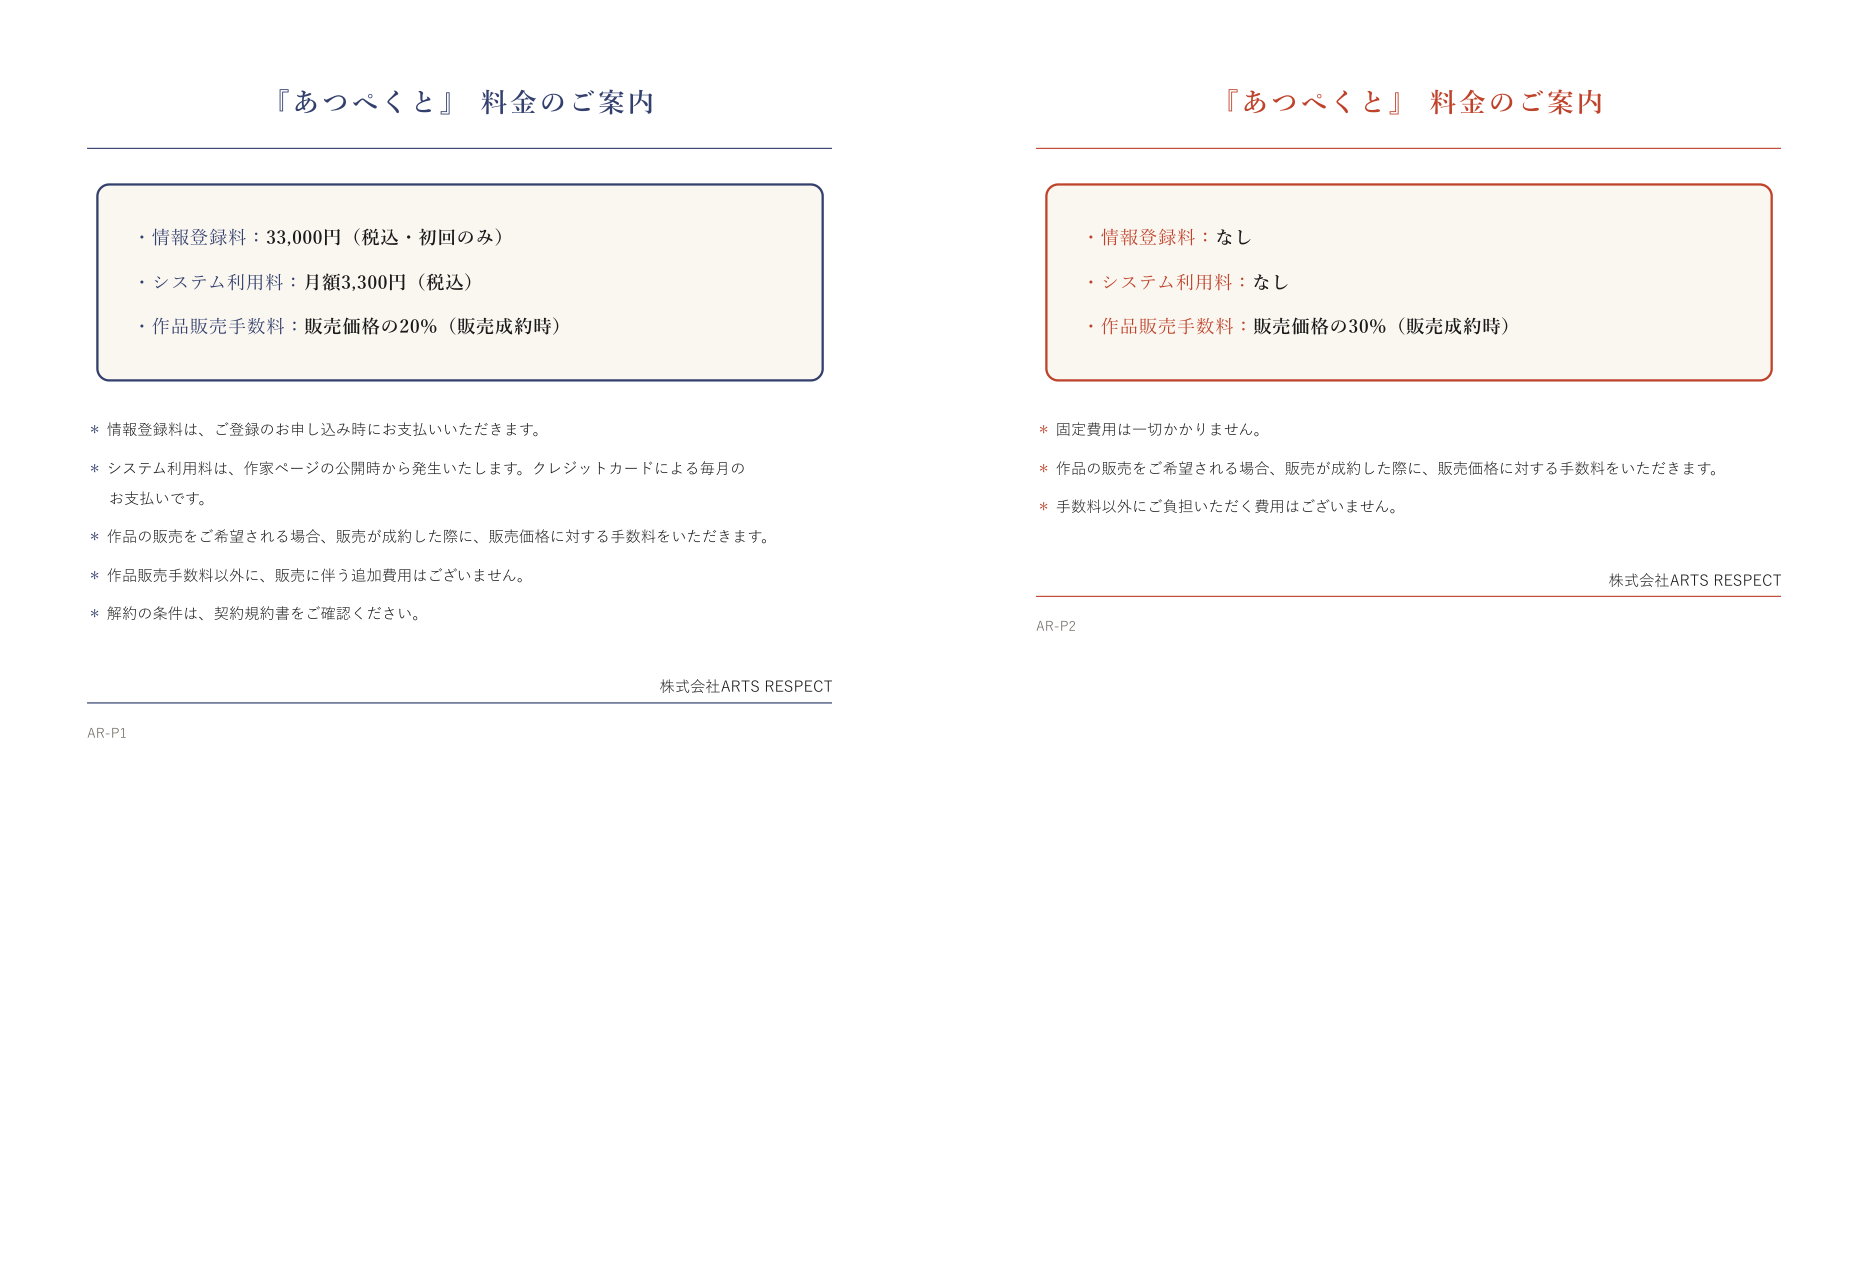
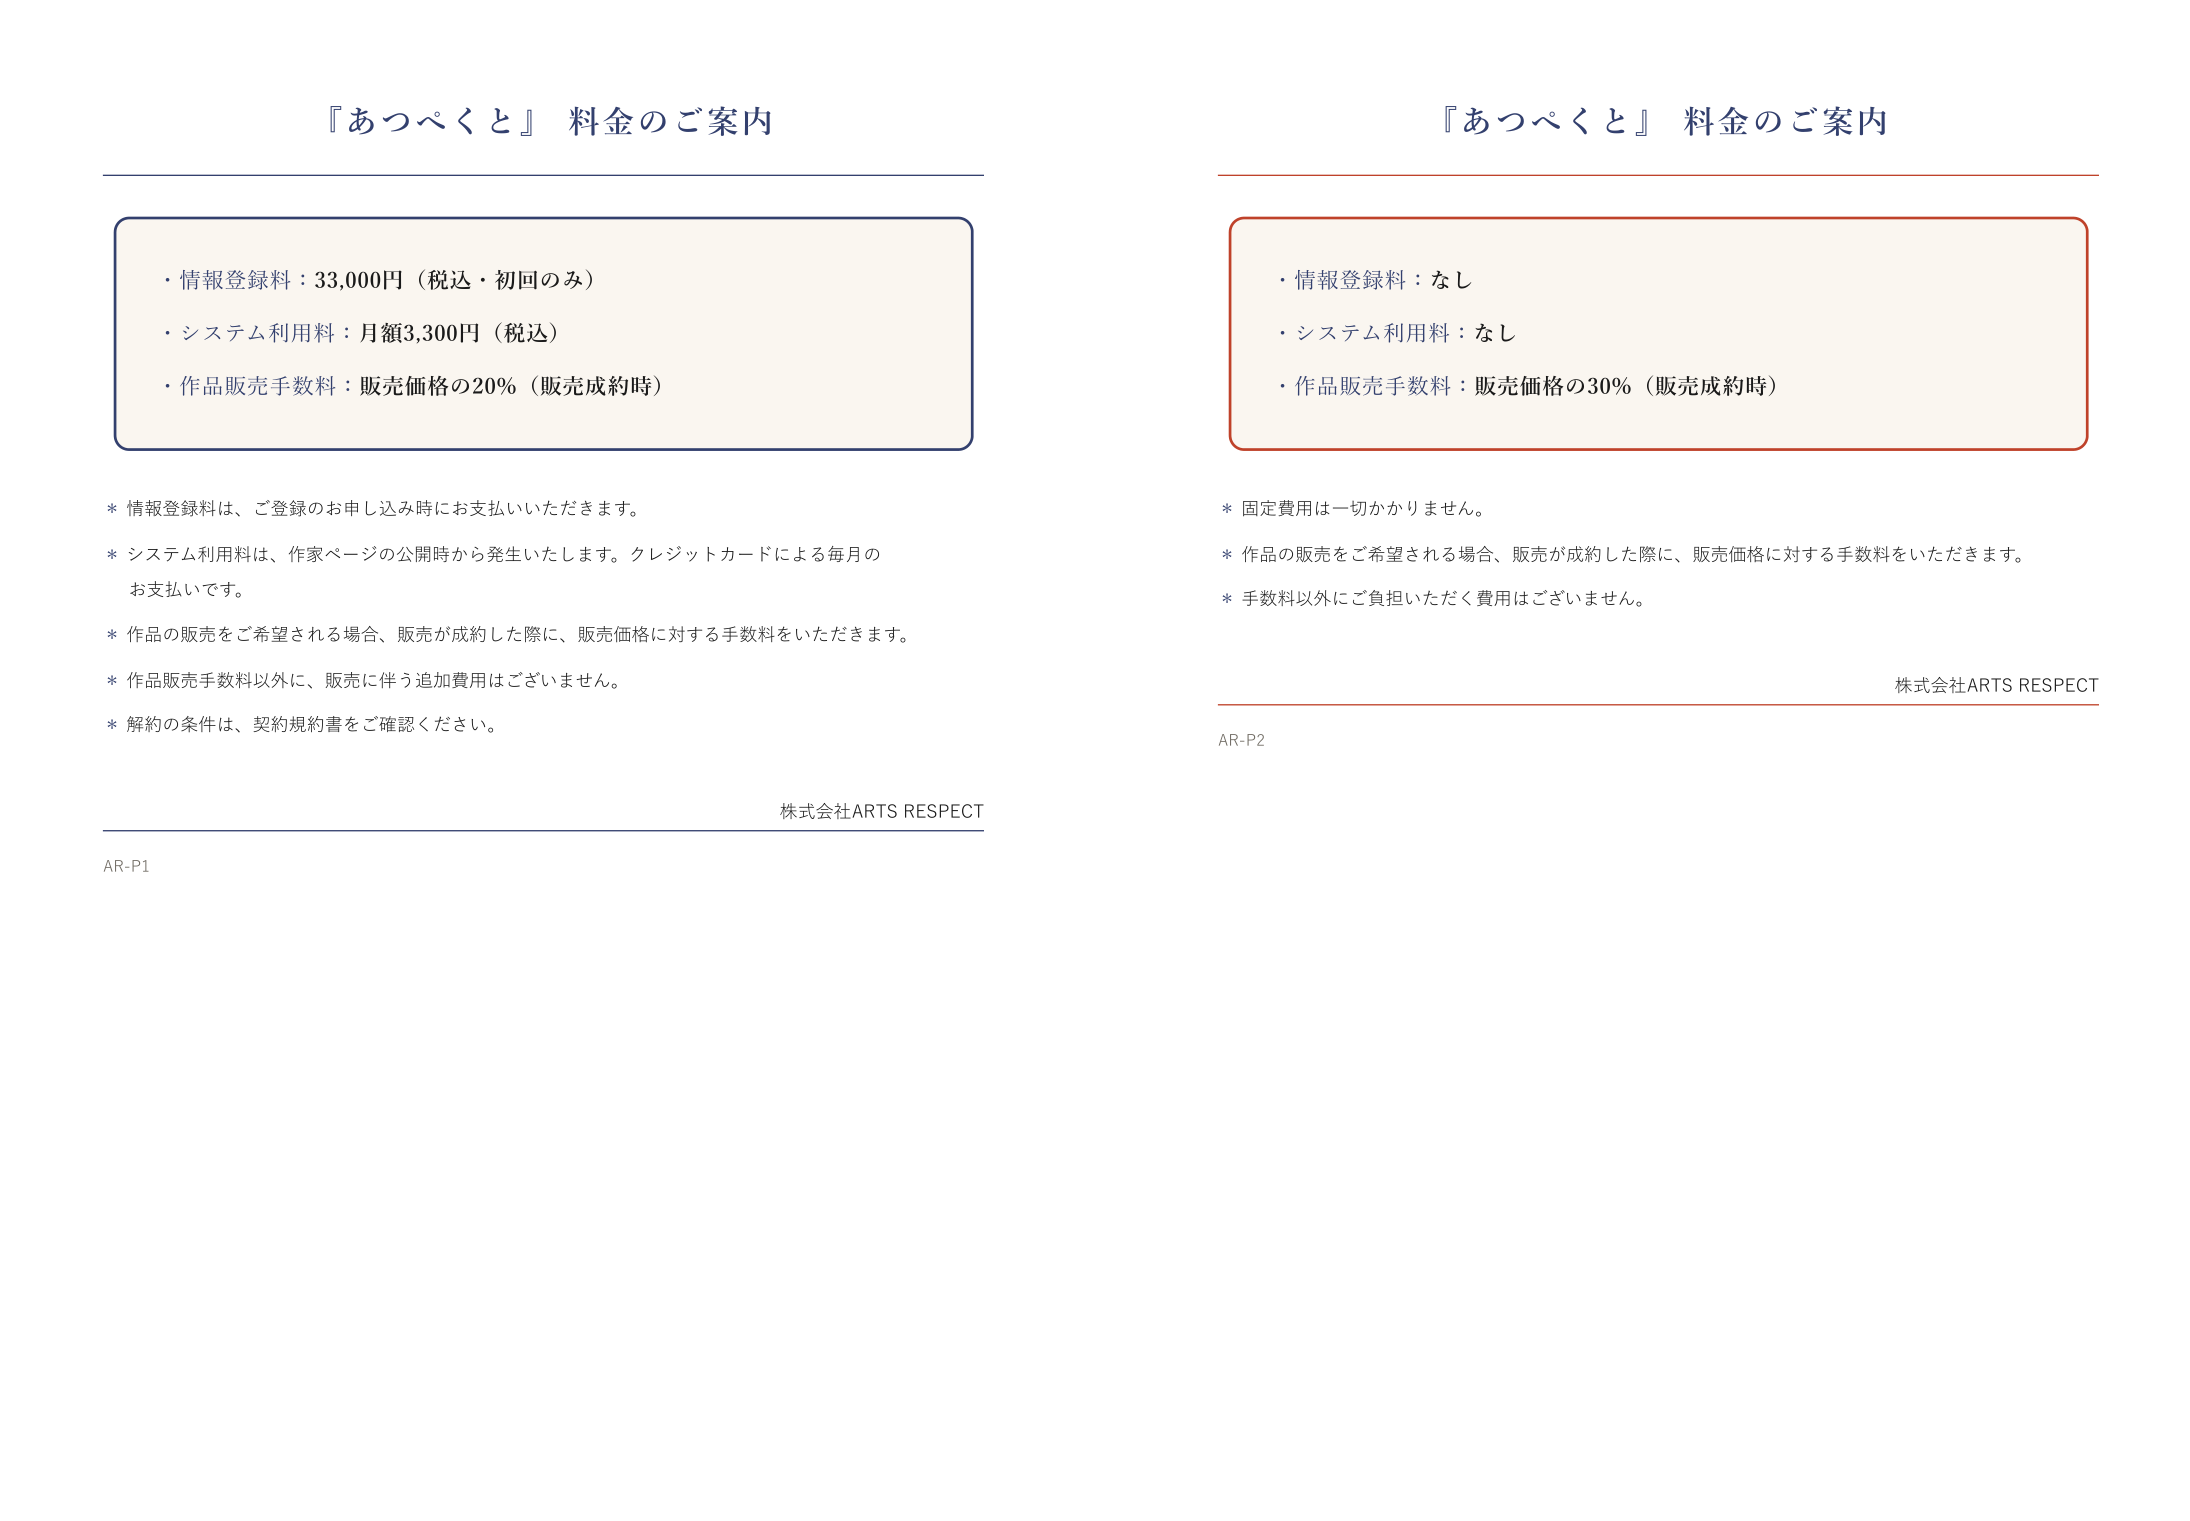
AR-P2の文字色をAR-P1と同一へ戻す（朱色は罫線と枠の3箇所のみ）・本文領域に朱色画素0をピクセル実証・線の欠け0

diff --git a/reports/assets/20260729_insatsu-reissue/report21.md b/reports/assets/20260729_insatsu-reissue/report21.md
@@ -1,0 +1,37 @@
+# 料金表AR-P2の文字色を元に戻す（朱色は罫線と枠だけに）
+
+作成：あつぺくと制作ターミナル／2026-07-31
+
+前便（[report20](./report20.md)）でAR-P2を朱色化した際、文字まで朱色にしたため「紙全体が赤く見え、本文の黒と混ざって読みにくい」との指摘を受けた是正。Vault実装ログ`_実装ログ_申込書注記と料金表の色分け_20260731_ATSPECT.md`が正本（本便分を追記）。
+
+## やったこと
+
+**朱色（#C0432B）のまま残したのは線の3箇所だけ**：
+- タイトル下の横罫（1.2pt）
+- 料金枠のボーダー（1.5pt）
+- フッター上の罫線（0.4pt）
+
+**AR-P1と同じ色に戻した文字**：
+- タイトル「『あつぺくと』 料金のご案内」→ 藍 #34416e
+- 項目名（情報登録料／システム利用料／作品販売手数料）→ 藍 #34416e
+- 注記の「＊」記号 → 藍 #34416e
+
+※注記の本文・金額（黒 #1A1A1A）、「株式会社ARTS RESPECT」・文書ID「AR-P2」（グレー #6f6a63）は**当初から変更しておらず、もともとAR-P1と同一**でした。
+
+## 検証（実測）
+
+- **文字色がAR-P1と完全一致**＝両ファイルの5要素を抽出して機械対比＝タイトル#34416e／項目名#34416e／金額#1A1A1A／＊記号#34416e／社名・文書ID#6f6a63で**全一致**。
+- **朱色が線だけであることのピクセル実証（300dpi）**＝朱色が現れる縦方向の帯は**y403-405（3px＝タイトル下の罫）／y500-1039（料金枠）／y1625-1627（3px＝フッター罫）の3箇所のみ**。料金枠の内側（y600-900）で朱色が出るx座標は**263-267と2241-2245（枠の左右の縦線）だけ**＝**本文領域に朱色の画素は1つもない**。
+- 藍色の画素が**15,614個**検出＝文字が藍に戻っている裏付け。
+- **並べた画像で目視**＝一目の区別は維持され、かつ紙全体が赤く見えない（証拠＝`p1_p2_side_by_side.png`）。
+- **線の欠け検査**＝E-3でAR-P2 L7/R7/T7/B7・**差0px**、直線部の連続性も**4辺すべて隙間0**（AR-P1も同値）。右辺の拡大画像で実線と角の接続を目視確認（`p2_box_right_edge_zoom.png`）。
+- `layout_check.py --all`＝**全42項目PASS・FAIL 0件**／`check_doc_text_v3.py`＝全PASS／`verify_before_print.py`＝全PASS。
+- 入稿フォルダ同期・デスクトップ差し替え（**MD5一致**）。
+
+## 実施していないこと・判定していないこと
+
+- AR-P1側の変更（対象外・変更なし）。
+- Codexレビュー（本便は指示になく、前便の色の再現性レビュー＝#C0432Bは4色印刷で問題なし・代案不要、が有効なまま。**線のみに縮小したことでインクの使用面積は減る方向のため、印刷再現性の判定は前便から悪化しない**と判断した）。
+- 前便からの継続の未対応事項＝**`10_印刷入稿仕様書.pdf`への色分けの明記**（編集可能なソースがなくPDFのみのため更新できず。00・09・11には明記済み）。
+- 前便からの継続の要判断事項＝Codex提案の型名ラベル（「月額型［AR-P1］」等）の追加。**白黒コピー時は色による区別が事実上失われる**という限界は本便でも変わらない（むしろ朱色の使用面積が減ったため、白黒での差はさらに小さくなる方向）。
+- 実プリンター・実機の複写機での色の出方（未確認＝実機確認は代表に委ねる）。

diff --git a/reports/seisaku.md b/reports/seisaku.md
@@ -1,11 +1,11 @@
-申込書の注記と料金表の色分け＝完遂。
-1雅号の注記＝「雅号は、」を削除。左端の整列はbboxでは0.07mm差だったが実インクをピクセル実測すると0.33mm右にずれていた（「※」の字面の左アキ）→補正して差0.08mmへ。
-2料金表AR-P2を朱色#C0432B（CMYK C0/M65/Y78/K25・総インク量168%）へ。適用は罫線/枠/見出し/ラベル/＊記号の7箇所、本文と金額は黒のまま。藍の残存0件（全数確認・青系の色は1つも残っていない）。並べた画像で一目で区別できることを確認。
-線の欠け検査＝E-3で4辺7px差0px・直線部の隙間0（※測定で異常値が出たが既知正常のAR-P1でも同値のため測定側の誤りと判別し是正して再測定）。
-Codex2観点＝①朱色は4色印刷で問題なし・代案不要（総インク量168%・色域外れなし・伝統色の朱・0.4pt罫線が版ズレに最も敏感だが可）②白黒コピー時の区別は「一目で確実とは言えない」＝不十分。型名ラベル追加を提案されたが、指示範囲（色のみ）を超え料金表の文言変更にあたるため実施せず要判断として報告。
-★カラー原本では目的を達成、白黒コピーでは色の区別が事実上失われる限界を明示報告。
-窓口の取り違え防止＝00入稿一覧・09窓口メモ(PDF再生成)・11最終チェックリストに藍/朱を明記（指示の「10」は実名11_最終チェックリスト。10_印刷入稿仕様書はHTMLソースがなく更新できず＝要対応）。
+料金表AR-P2の文字色を元に戻す＝完遂。
+朱色(#C0432B)のまま残したのは線の3箇所だけ＝タイトル下の横罫1.2pt／料金枠のボーダー1.5pt／フッター上の罫線0.4pt。
+AR-P1と同じ藍(#34416e)へ戻した文字＝タイトル・項目名・＊記号。※注記本文と金額(黒)・社名と文書ID(グレー)は当初から未変更でもともとAR-P1と同一。
+検証＝両ファイルの文字色5要素を機械対比して全一致。朱色が線だけであることをピクセル実証（朱色が出る帯はy403-405/y500-1039/y1625-1627の3箇所のみ、枠の内側で朱色が出るxは左右の縦線263-267と2241-2245だけ＝本文領域に朱色の画素0）。藍色画素15,614個検出＝文字が藍に戻った裏付け。
+並べた画像で一目の区別が維持され、かつ紙全体が赤く見えないことを目視確認。
+線の欠け検査＝E-3で4辺7px差0px・直線部の隙間0（AR-P1も同値）・右辺の拡大画像で角の接続も確認。
 検証＝layout_check全42項目PASS・check_doc_text全PASS・verify_before_print全PASS・MD5一致。
-詳細：reports/assets/20260729_insatsu-reissue/report20.md
+継続の未対応＝10_印刷入稿仕様書へのAR-P2朱色の明記（HTMLソースがなく更新不可・00/09/11には明記済み）。継続の要判断＝Codex提案の型名ラベル追加（白黒コピー時は色の区別が事実上失われる限界は本便でも同じ）。
+詳細：reports/assets/20260729_insatsu-reissue/report21.md
 Vault正本：_実装ログ_申込書注記と料金表の色分け_20260731_ATSPECT.md
 最終更新：2026-07-31
